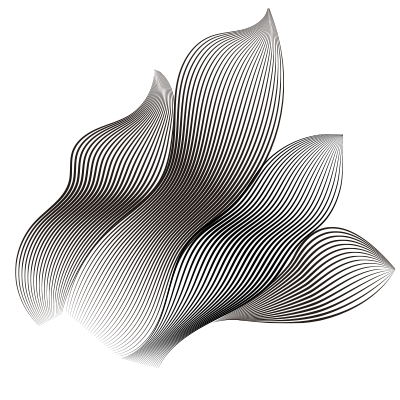
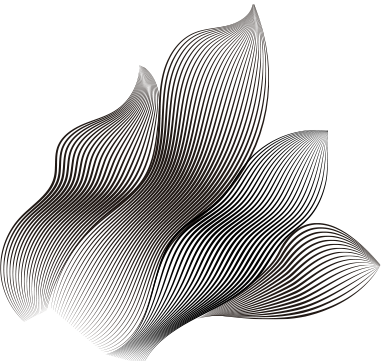
texture png hair

diff --git a/Loader/TestMovSVG/index.js b/Loader/TestMovSVG/index.js
@@ -11,7 +11,7 @@ import { createImg } from '/js/images.js';
 import { waves, wavesBuffer } from '/js/waves';
 
 const urlData = require('/img/girl.png');
-const urlData2 = require('/img/partOne.svg');
+const urlData2 = require('/img/hair.png');
 //const urlData2 = require('/img/tiger.svg');
 //const urlData3 = require('/img/partTwo.svg');
 //const urlData4 = require('/img/hair.png');
@@ -22,7 +22,7 @@ let objects =[];
 let stats = new Stats();
 document.body.appendChild( stats.dom );
 
-let camera, container, renderer, scene, cube, myGroup, myGroup2, girl, hair, myGroup3;
+let camera, container, renderer, scene, cube, group, girl, hair;
 
 function init() {
 
@@ -34,23 +34,14 @@ function init() {
   createOrbitControls( camera, container );
   createLights( scene );
 
-  scene.add( myGroup );
-  myGroup.position.set( -2.4, 15.2, -10);
-  myGroup.scale.multiplyScalar( 0.145 );
-
-  console.log(myGroup)
-
-  //myGroup2.position.set( -69, 78, -10);
-  //scene.add( myGroup2 );
-
   //plane = createGridHelp( scene );
-  girl = createImg( scene,.99,-7.6,-11, imgOne, .2);
+  createImg( scene,.99,-7.6,-11, imgOne, .2);
+  hair = createImg( scene,3.6,9.5,-10.3, imgTwo, .3);
   /*
-  hair = createImg( scene,2.9,9,-10.2, imgTwo, .25);
-  myGroup3 = new THREE.Group();
-  myGroup3.add(hair)
-  //scene.add( myGroup3 );
-  */
+  group = new THREE.Group();
+  group.add( hair )
+  scene.add( group );
+*/
   renderer = createRenderer( container );
 
   renderer.setAnimationLoop( () => {
@@ -64,9 +55,12 @@ function init() {
 
 function update() {
   stats.update();
-  wavesBuffer( myGroup, 30,10, .001);
-  //wavesBuffer( myGroup2, 2,3, .001);
-  //wavesBuffer( myGroup3, 2.1,.6, .001);
+  const time = ( 0.0001 * performance.now() ) % 1;
+  
+
+  wavesBuffer( hair, 2.7,.6, .003);
+  hair.material.color.setHSL( time , .5, 0.5 );
+
 }
 
 function render() {
@@ -98,7 +92,15 @@ loader.load( urlData, function ( texture ) {
     imgOne = texture;
 
 } );
+let loader3 = new THREE.TextureLoader(manager);
+loader3.load( urlData2, function ( texture3 ) {
+    texture3.encoding = THREE.sRGBEncoding;
+    imgTwo = texture3;
 
+} );
+
+
+/*
 var loader2 = new SVGLoader( manager );
 
 loader2.load( urlData2, function ( data ) {
@@ -129,7 +131,6 @@ loader2.load( urlData2, function ( data ) {
                 var mesh = new THREE.Mesh( geometry, material );
                 group.add( mesh );
               }
-    
             var strokeColor = path.userData.style.stroke;
 
               var material = new THREE.MeshBasicMaterial( {
@@ -152,3 +153,4 @@ loader2.load( urlData2, function ( data ) {
           }
           myGroup = group;
         } );
+        */

diff --git a/Loader/TestMovSVG/js/waves.js b/Loader/TestMovSVG/js/waves.js
@@ -1,25 +1,20 @@
 import * as THREE from 'three';
 
+function wavesBuffer( object, waveSize, magnitude, speed ){
 
-function wavesBuffer( objects, waveSize, magnitude, speed ){
-
-    const theTime =  performance.now() * speed ;
-    for ( var o = 0; o < objects.children.length; o++ ) {
-
-      var pos = objects.children[o].geometry.attributes.position;
+    const theTime =  performance.now() * speed;
+      var pos = object.geometry.attributes.position;
       let center = new THREE.Vector3(0,4,0);
       var vec3 = new THREE.Vector3(); // re-use
 
         for ( let i = 0, l = pos.count; i < l; i ++ ) {
-
-
             vec3.fromBufferAttribute(pos, i);
             vec3.sub(center);
             var z = Math.sin( vec3.length() /- waveSize + (theTime)) * magnitude;
             pos.setZ(i, z);
         }
         pos.needsUpdate = true;
-    }
+    
 }
 
 function waves( objects, waveSize, magnitude ){
